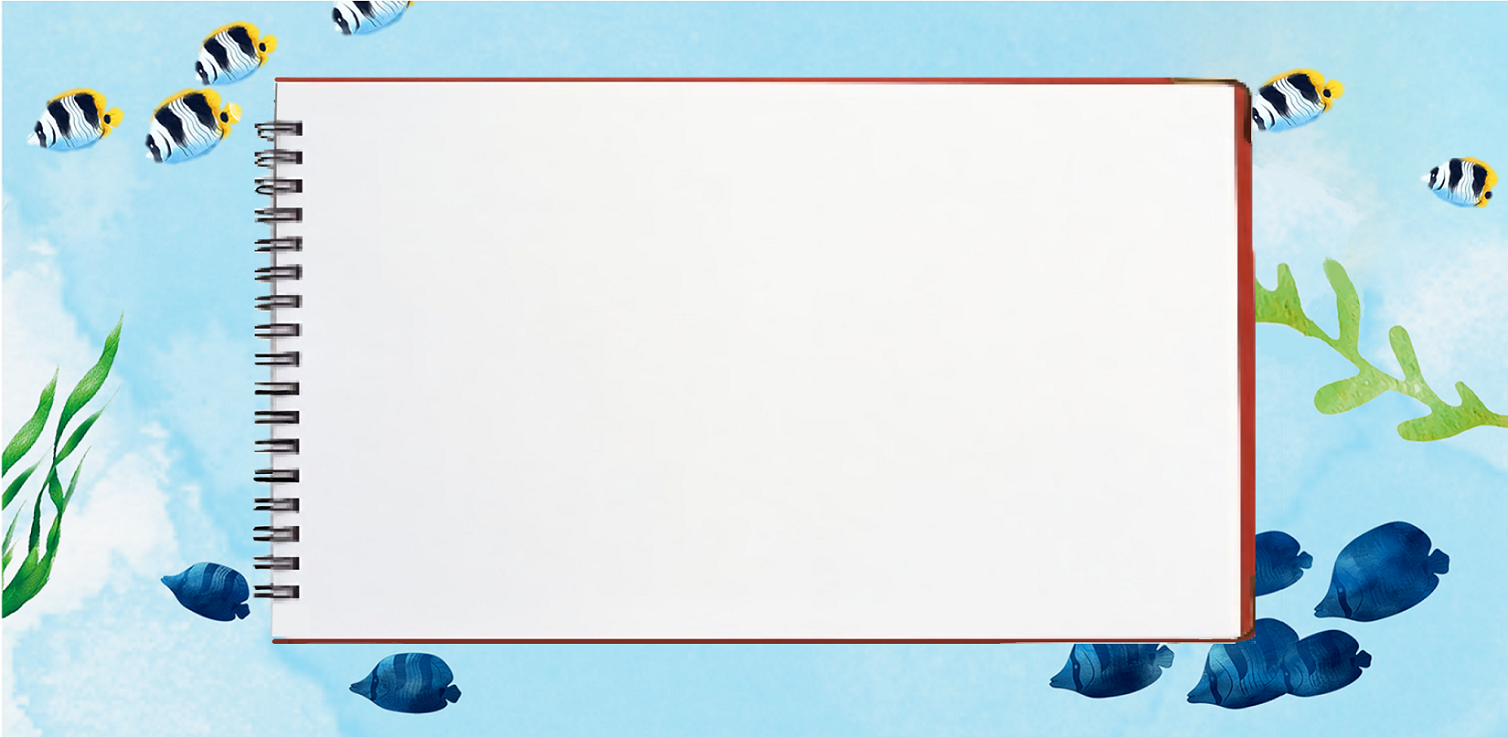
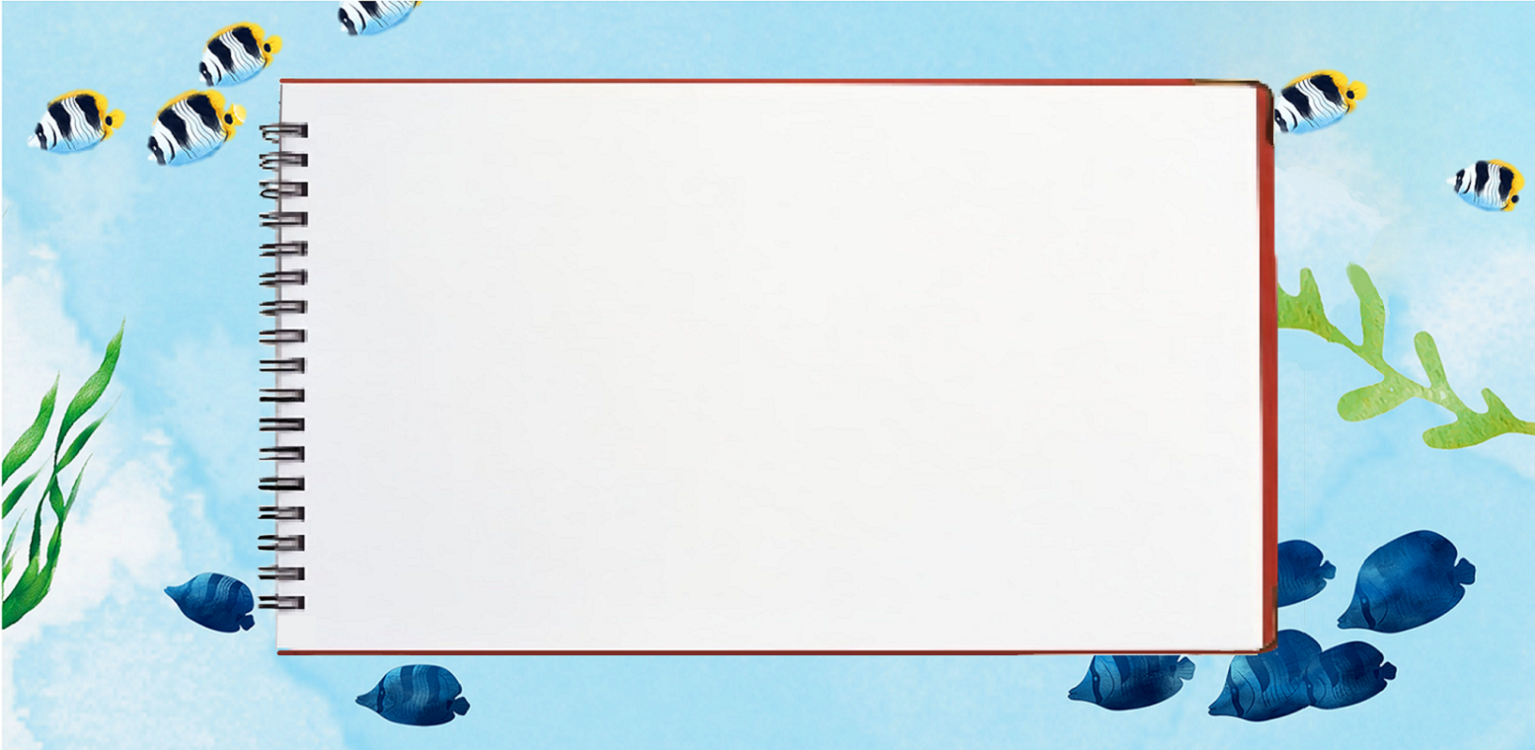
add Sep1 Sep 2 Sep3

diff --git a/css/journal.css b/css/journal.css
@@ -4,11 +4,24 @@
     font-weight: normal;
 	font-style: normal;
 }
-
-.main-area{
-    position: relative;
-    display: inline-block; /* Make the width of box same as image */
+.background{
+    background-image: url(./img/final.png);
+    height: 750px;
+    width: 1535px;
+    background-position: center; /* Center the image */
+    background-repeat: no-repeat; /* Do not repeat the image */
+    background-size: cover;
+    position: absolute;
 }
+.main-area{
+    margin-top: 90px;
+    margin-left:350px ;
+    position: absolute;
+}
+/*.main-area{
+    position: relative;
+    display: inline-block; /* Make the width of box same as image 
+}*/
 
 .tri{    
     position: absolute;
@@ -19,32 +32,30 @@
     border-radius: 2px;
     left: 0;
     right: 0;
-    top: 48%;
-    margin: 0 1200px;
-    z-index: 1;
+    top: 45.5%;
+    margin: 0 1215px;
 }
 .Small_cir{    
     position: absolute;
     width:40px;
     height:40px;
-    border-style: dashed;
+    border-style: solid;
     border-width: 2px 2px;
     border-color:  transparent;  
     border-radius: 50%;
     display:inline-block;
     left: 0;
     right: 0;
-    top: 47.1%;
-    margin: 0 1186px;
+    top: 44.6%;
+    margin: 0 1202px;
 }
-
 .Big_cir1{    
     position: absolute;
     width:180px;
     height:180px;
     border-style: dashed;
     border-width: 2px 2px;
-    border-color:  #999999;  
+    border-color: black;  
     border-radius: 50%;
     display:inline-block;
     left: 0;
@@ -70,7 +81,7 @@
     height:180px;
     border-style: dashed;
     border-width: 2px 2px;
-    border-color:  #999999;  
+    border-color:  black;  
     border-radius: 50%;
     display:inline-block;
     left: 0;
@@ -96,7 +107,7 @@
     height:180px;
     border-style: dashed;
     border-width: 2px 2px;
-    border-color: #999999;  
+    border-color: black;  
     border-radius: 50%;
     display:inline-block;
     left: 0;
@@ -132,5 +143,19 @@
 }
 .Small_cir:hover{
     border-color: #999999;
+}
+.Sep1_text{
+    font-family: Ink free;
+    position: relative;
+    text-align: left;
+    width: 68%;
+    margin-top: 200px;
+    margin-left: 200px;
+    font-size: 20px;
+}
+.Sep1_pic{
+    position: absolute;
+    margin-top: 150px;
+    margin-left: 150px;
 }
         

diff --git a/prject.html b/prject.html
@@ -1,0 +1,50 @@
+<!DOCTYPE html>
+<html lang="en">
+
+<head>
+    <meta charset="UTF-8">
+    <link href="//db.onlinewebfonts.com/c/63bb2f3fa441c0366350160e6476d3ac?family=alphabetized+cassette+tapes" rel="stylesheet" type="text/css"/>
+    <title>Fiji November</title>
+    <style>
+        @font-face {font-family: "alphabetized cassette tapes"; 
+        src: url("//db.onlinewebfonts.com/t/63bb2f3fa441c0366350160e6476d3ac.eot"); 
+        src: url("//db.onlinewebfonts.com/t/63bb2f3fa441c0366350160e6476d3ac.eot?#iefix") format("embedded-opentype"), 
+        url("//db.onlinewebfonts.com/t/63bb2f3fa441c0366350160e6476d3ac.woff2") format("woff2"), 
+        url("//db.onlinewebfonts.com/t/63bb2f3fa441c0366350160e6476d3ac.woff") format("woff"), 
+        url("//db.onlinewebfonts.com/t/63bb2f3fa441c0366350160e6476d3ac.ttf") format("truetype"), 
+        url("//db.onlinewebfonts.com/t/63bb2f3fa441c0366350160e6476d3ac.svg#alphabetized cassette tapes") format("svg"); }
+        .bg{
+            position: absolute;
+            background-image: url(./img/final.png);
+            height: 727px;
+            width: 1507px;
+            background-position: center; /* Center the image */
+            background-repeat: no-repeat; /* Do not repeat the image */
+            background-size: cover; /* Resize the background image to cover the entire container */  
+        }
+        .isi{
+            margin-top: 90px;
+            margin-left:350px ;
+            position: absolute;
+            z-index: 999;
+            margin: 0 auto;
+            left: 0;
+            right: 0;
+            top: 45%; /* Adjust this value to move the positioned div up and down */
+            text-align: left;
+            width: 55%; /* Set the width of the positioned div */
+            font-family: alphabetized cassette tapes;
+        }
+        .first{
+        }
+    </style>
+</head>
+
+<body>
+    <div class="bg">
+        <div class="isi">
+
+        </div>
+    </div>
+</body>
+</html>

diff --git a/Sep1.html b/Sep1.html
@@ -1,13 +1,17 @@
 <!DOCTYPE html>
 <html lang="en">
 <head>
-    <meta charset="UTF-8">
-    <title>Step1</title>
+    <meta charset="utf-8">
+    <link rel=stylesheet type="text/css" href="css/normalize.css"> 
+    <link rel=stylesheet type="text/css" href="css/journal.css"> 
+    <script src="js/jquery-3.5.0.min.js"></script>
+    <script src="js/journal.js"></script>
+    <title>September Diary</title>
 </head>
 <body>
-    <div class="background">
-        <img src="./img/1053.png" alt="Diary background">
-        <p class="Sep1">
+    <div class="main-area">
+        <img src="./img/Sep11.png" alt="" class="Sep1_pic">
+        <p class="Sep1_text">
             In September, I still focus on the broadstock culture Milkfish are fish that lay eggs at night, as a result on the next day we need to avoid the eggs under the sunshine. In the morning after observed the eggs that are slightly transparent and yellowish on the surface of the water, we use the egg collection net to collect the fish eggs.  
         </p>
     </div>

diff --git a/Sep3.html b/Sep3.html
@@ -1,0 +1,20 @@
+<!DOCTYPE html>
+<html lang="en">
+<head>
+    <meta charset="utf-8">
+    <link rel=stylesheet type="text/css" href="css/normalize.css"> 
+    <link rel=stylesheet type="text/css" href="css/journal.css"> 
+    <script src="js/jquery-3.5.0.min.js"></script>
+    <script src="js/journal.js"></script>
+    <title>September Diary</title>
+</head>
+<body>
+    <div class="main-area">
+        <img src="./img/final.png" alt="Diary background">
+        <img src=
+        <p class="Sep1">
+            After collected the eggs, put them into the fish egg collection barrel and put the air stone inside to increase the oxygen in the barrel, turn it off before the collection, let the eggs stay in the bucket for 30 minutes to separate the fertilized eggs and the dead eggs, and last collect the fertilized eggs floating on the water surface, weight it then add to the nursery pond.
+        </p>
+    </div>
+</body>
+</html>

diff --git a/Sep2.html b/Sep2.html
@@ -1,0 +1,21 @@
+<!DOCTYPE html>
+<html lang="en">
+<head>
+    <meta charset="utf-8">
+    <link rel=stylesheet type="text/css" href="css/normalize.css"> 
+    <link rel=stylesheet type="text/css" href="css/journal.css"> 
+    <script src="js/jquery-3.5.0.min.js"></script>
+    <script src="js/journal.js"></script>
+    <title>September Diary</title>
+</head>
+<body>
+    <div class="background">
+        <div class="main-area" style>
+            <img src="./img/final.png" alt="Diary background">
+            <p class="Sep1">
+                The eggs will be collect three times a day before noon time, during this period we turn on the paddlewheel to make wave to let the eggs flow into the collection net.
+            </p>
+        </div>
+    </div>
+</body>
+</html>

diff --git a/Sep.html b/Sep.html
@@ -9,8 +9,9 @@
     <title>September Diary</title>
 </head> 
 <body>
+
     <div class="main-area">
-        <img src="./img/final.png" alt="Diary background">
+        <img src="./img/place.png" alt="Diary background">
         <a href="Sep1.html">
             <div class="Big_cir1">
                 <div class="Step1">
